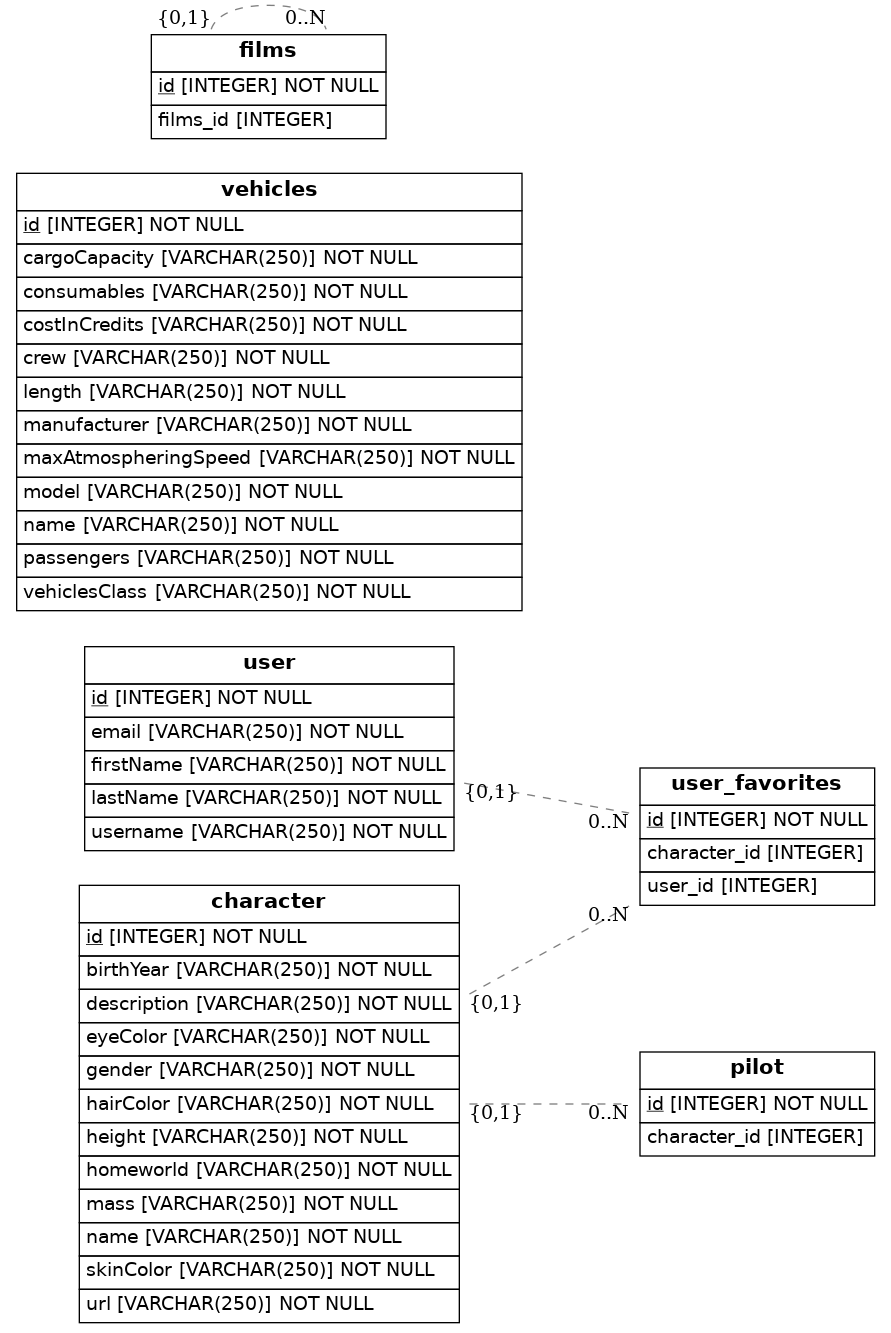
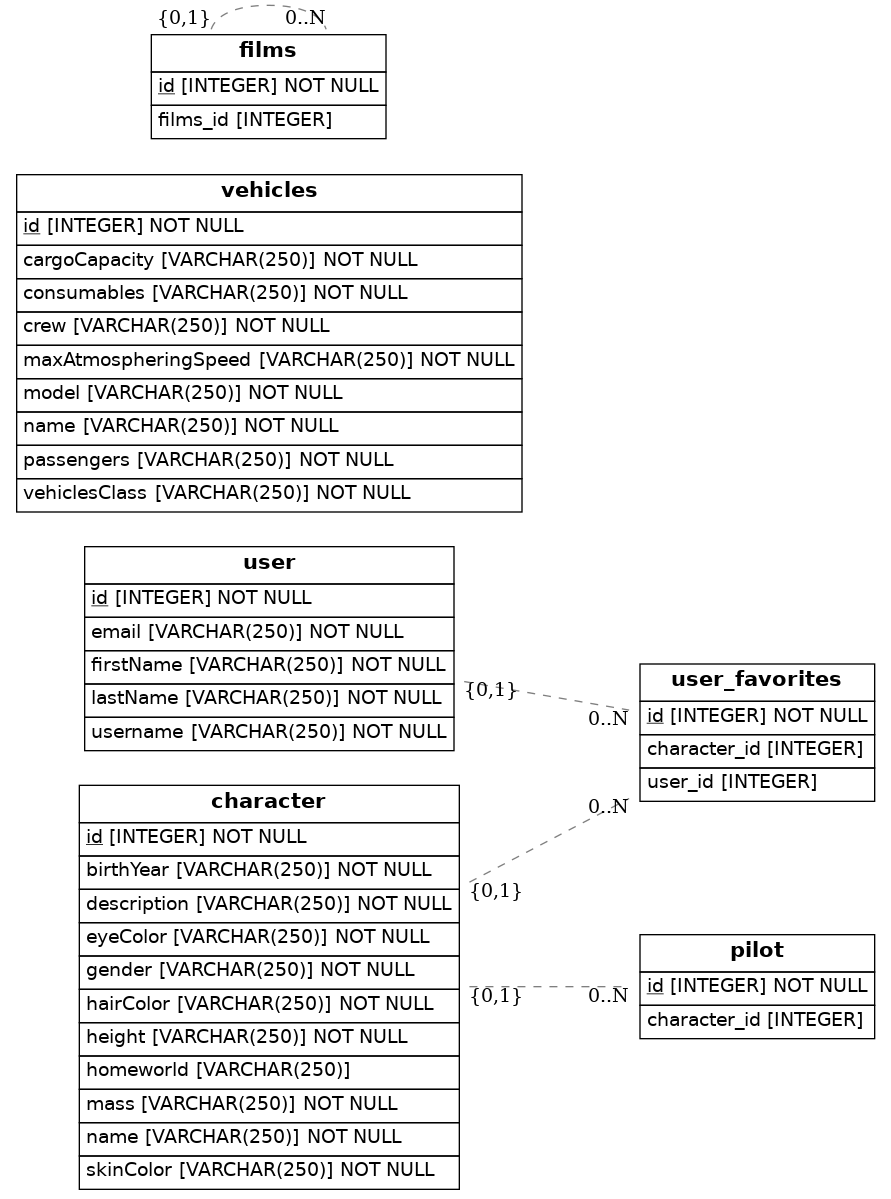
view later

diff --git a/src/models.py b/src/models.py
@@ -32,29 +32,26 @@ class Character(Base):
     __tablename__ = 'character'
     id = Column(Integer, primary_key=True)
     name = Column(String(250),nullable=False)
+    gender = Column(String(250),nullable=False)
     height = Column(String(250),nullable=False)
     mass = Column(String(250),nullable=False)
     hairColor = Column(String(250),nullable=False)
     eyeColor = Column(String(250),nullable=False)
     skinColor = Column(String(250),nullable=False)
-    gender = Column(String(250),nullable=False)
     birthYear = Column(String(250),nullable=False)
-    homeworld = Column(String(250),nullable=False)
-    url = Column(String(250),nullable=False)
+    homeworld = Column(String(250),ForeignKey('homeworld.id'), nullable=True)
+    
     description = Column(String(250),nullable=False)
 
 class Vechicles(Base):
     __tablename__ = 'vehicles'
     id = Column(Integer, primary_key=True)
     name = Column(String(250),nullable=False)
+    crew = Column(String(250), ForiegnKey (('character.id', 'pilot.id', 'films.id' nullable =False))
     model = Column(String(250),nullable=False)
-    manufacturer = Column(String(250),nullable=False)
-    costInCredits = Column(String(250),nullable=False)
-    length = Column(String(250),nullable=False)
-    maxAtmospheringSpeed = Column(String(250),nullable=False)
-    crew = Column(String(250),nullable=False)
-    passengers = Column(String(250),nullable=False)
     cargoCapacity = Column(String(250),nullable=False)
+    maxAtmospheringSpeed = Column(String(250),nullable=False)
+    passengers = Column(String(250),nullable=False)
     consumables = Column(String(250),nullable=False)
     vehiclesClass = Column(String(250),nullable=False)
 
@@ -66,7 +63,7 @@ class Films(Base):
 class Pilot(Base):   
     __tablename__ ='pilot' 
     id = Column(Integer,primary_key=True)
-    character_id = Column(Integer, ForeignKey('character.id'))
+    character_id = Column(Integer, ForeignKey('character.id', 'vechicles.id'))
 
 
     def to_dict(self):
